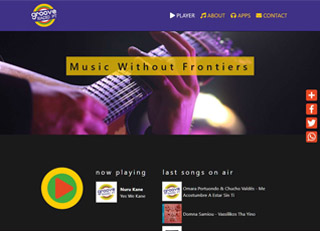
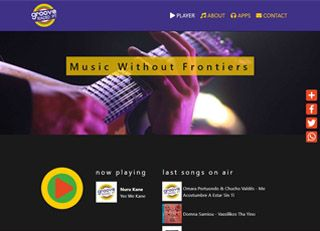
add ateliersueste and change cpations

diff --git a/index.html b/index.html
@@ -67,24 +67,28 @@
      <div class="gallery-content">
       <div class="gallery">
           <a href="https://tubbiearts.com" target =“_blank”><img src="images/tubbiearts.com-sbs.jpg" alt="Tubbie Arts Website"></a>
-          <div class="description">Tubbie Arts Website<p>CSS, JavaScript, Python - Flask</p></div>
+          <div class="description">tubbiearts.com<p>CSS, JavaScript, Python (Flask)</p></div>
       </div>
       <div class="gallery">
-          <a href="https://grooveradio.net" target =“_blank”><img src="images/grooveradio.net-sbs.JPG" alt="GrooveRadio.NET Website"></a>
-          <div class="description">Groove Radio Website<p>CSS, Bootstrap & Javascript</p></div>
+          <a href="https://grooveradio.net" target =“_blank”><img src="images/grooveradio.net-sbs-compressor.jpg" alt="GrooveRadio.NET Website"></a>
+          <div class="description">grooveradio.net<p>CSS, Bootstrap & Javascript</p></div>
         </div>
       <div class="gallery">
+        <a href="https://ateliersueste.com/" target =“_blank”><img src="images/ateliersueste.com-sbs.jpg" alt="Atelier Sueste Website"></a>
+        <div class="description">ateliersueste.com<p>HTML, SCSS & Javascript</p></div>
+      </div>
+      <div class="gallery">
         <a href="https://bookishreviews.herokuapp.com/" target =“_blank”><img src="images/bookish-reviews-screencapture-sbs.jpg" alt="Bookish Reviews Website"></a>
-        <div class="description">Bookish Reviews<p>Python, Javascript & Bulma</p></div>
+        <div class="description">Bookish Reviews<p>Bulma, Python & Javascript</p></div>
       </div>
       <div class="gallery">
         <a href="https://codepen.io/Tubbie/full/zpayqM" target =“_blank”><img src="images/pixel-art-maker-sbs.jpg" alt="Pixel Art Maker"></a>
         <div class="description">Pixel Art Maker Web App<p>CSS, Javascript & jQuery</p></div>
       </div>
-      <div class="gallery">
+      <!-- <div class="gallery">
         <a href="https://codepen.io/Tubbie/full/yKeJyQ" target =“_blank”><img src="images/brighton-times-sbs.jpg" alt="Responsive Design"></a>
         <div class="description">Responsive News Web Page<p>HTML, CSS & Javascript<p></div>
-      </div>
+      </div> -->
       <div class="gallery">
         <a href="https://codepen.io/Tubbie/full/PeaYzX" target =“_blank”><img src="images/madlib-harrypotter-sbs.jpg" alt='"Mad Libs" Harry Potter edition'></a>
         <div class="description">"Mad Libs" Harry Potter edition<p>HTML, CSS & JavaScript</p></div>
@@ -111,7 +115,7 @@
   </section>
 <footer>
   <hr>
-  <p>© Sofia Silva</p>
+  <p>2019 © Sofia Silva</p>
 </footer>
 </body>
 <script src="script.js"></script>
